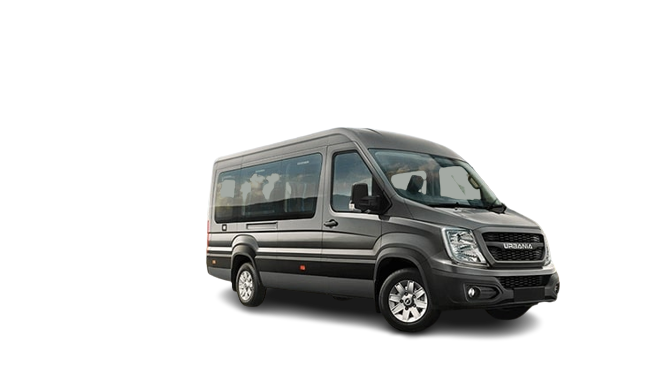
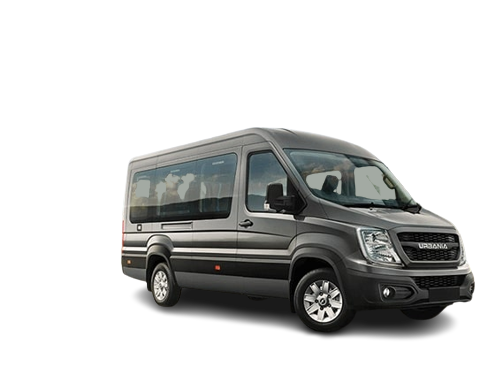
df

Changed region(s): [[0.2395, 0.3227, 0.9581, 0.9093]]

diff --git a/src/app/about/athird/athird.component.html b/src/app/about/athird/athird.component.html
@@ -124,7 +124,7 @@ Corporate events
 </section>
 <section class="fleet-section red-bg">
   <div class="fleet-content left">
-    <div class="text">
+    <div style="width: 630px;" class="text">
       <h3>Urbania</h3><br>
       <h4>Urbania Van Hire in Hyderabad</h4>
       <p>Looking for a premium travel experience for larger groups? Try our Force Urbania – a modern luxury van with enhanced safety and comfort. Best for:
@@ -141,7 +141,7 @@ Airport shuttle for large groups
 ✔ 13-17 Seaters | ✔ Luxury seats | ✔ Air-conditioned | ✔ USB Charging Ports | ✔ Premium cabin feel
       </p>
     </div>
-    <img class="smlimg" src="assets/urbania.png" alt="urbania">
+    <img style="width: 659px;" src="assets/urbania.png" alt="urbania">
   </div>
   <br><br>
  <div class="diagonal-divider"></div> 

diff --git a/src/app/home/hfourth/hfourth.component.html b/src/app/home/hfourth/hfourth.component.html
@@ -6,8 +6,6 @@ Traveling to or from the airport should never be a stressful experience — and 
 <br><br>
 Our dedicated airport taxi services in Hyderabad ensure on-time pickups, professional drivers, and comfortable vehicles to make your airport transfers smooth and reliable. Whether you're a business traveler catching an early flight or a family arriving late night, we provide 24/7 airport cab services with complete convenience.
 <br><br>
-Ride in style with premium vehicles like the Innova Crysta, and enjoy a spacious, clean, and air-conditioned ride every time. Our drivers track your flight and ensure you’re picked up and dropped on time, every time.
-<br><br>
 ✅ Why Choose Our Airport Taxi Service?
 On-time pickup & drop to/from RGIA (Hyderabad Airport)
 <br><br>

diff --git a/src/app/home/hfourth/hfourth.component.css b/src/app/home/hfourth/hfourth.component.css
@@ -13,8 +13,8 @@
 
 .con img {
   max-width: 100%;
-  width: 500px;
-  height: auto;
+  width: 600px;
+  height: 665px;
   border-radius: 12px;
   box-shadow: 0 8px 20px rgba(0, 0, 0, 0.2);
 }

diff --git a/src/app/about/athird/athird.component.css b/src/app/about/athird/athird.component.css
@@ -56,9 +56,7 @@
   border-radius: 8px;
   /* box-shadow: 0 0 10px rgba(0,0,0,0.2); */
 }
-.smlimg{
-  width: 1000px;
-}
+
 
 /* Text Block */
 .fleet-content .text {

diff --git a/src/app/home/hthird/hthird.component.css b/src/app/home/hthird/hthird.component.css
@@ -57,7 +57,7 @@
 
 .mid-con img {
   width: 100%;
-  max-width: 320px;
+  max-width: 500px;
   height: auto;
   margin-bottom: 20px;
 }
